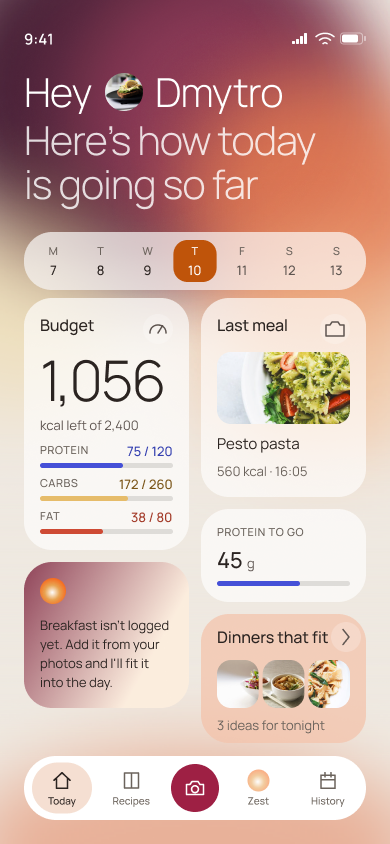
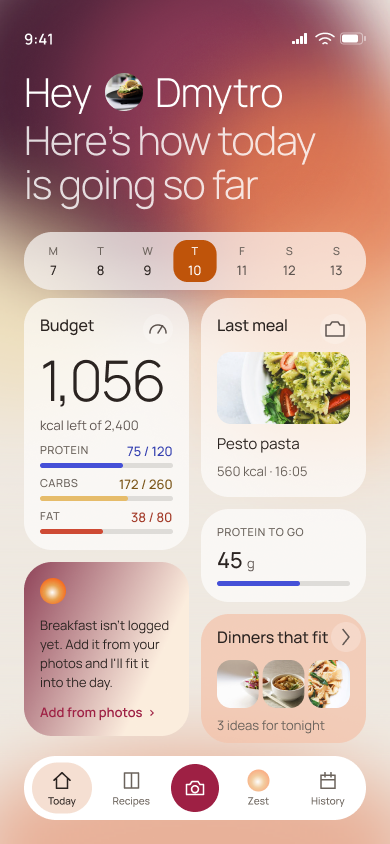
design: fix walkthrough issues W1–W4
Zest's nudge gets a visible "Add from photos ›" while breakfast is missing, and its tile
links to the camera or to Ask Zest depending on the day's state; the Capture library
thumbnail is labelled; found lines carry a chevron; a planned dinner leaves a trace on
Today. Re-checked by clicking the published prototype.

Claude-Session: https://claude.ai/code/session_01FDPnJdAVQFe1ai4QzDTio4

Changed region(s): [[0.0615, 0.8009, 0.3692, 0.8934]]

diff --git a/docs/COGNITIVE-WALKTHROUGH.md b/docs/COGNITIVE-WALKTHROUGH.md
@@ -27,12 +27,14 @@ worked?*
 
 ## Predicted issues, by severity
 
-| # | Issue | Severity | Suggested fix | Check in real sessions |
+Status after the walkthrough: **W1–W4 fixed** in the file (re-checked by clicking the published prototype); W5 and W6 stay prototype limitations.
+
+| # | Issue | Severity | Fix | Check in real sessions |
 |---|---|---|---|---|
-| W1 | Zest's nudge tile doesn't look tappable | Medium | Add "Add from photos ›" as a text button inside the tile | Task 1: do people tap the tile or go to the camera? |
-| W2 | Library thumbnail on Capture is unlabeled | Medium | A "Library" caption under the thumbnail | Task 1: how many press the shutter instead? |
-| W3 | Found lines have no edit affordance | Medium | A chevron on each line; keep the caption | Task 2: do people find the correction without prompting? |
-| W4 | A planned dinner leaves no trace on Today | Medium | The Dinners tile becomes "Tonight · Miso salmon · planned · ≈ 400 kcal" | Task 7: can people answer "is it counted?" a minute later? |
+| W1 | Zest's nudge tile doesn't look tappable | Medium | ✅ "Add from photos ›" inside the tile, shown only while breakfast is missing; the tile opens the camera then, and Ask Zest once breakfast is in (a conditional prototype link) | Task 1: do people tap the tile or go to the camera? |
+| W2 | Library thumbnail on Capture is unlabeled | Medium | ✅ "Library" caption under the thumbnail | Task 1: how many press the shutter instead? |
+| W3 | Found lines have no edit affordance | Medium | ✅ a chevron on each line; the caption stays | Task 2: do people find the correction without prompting? |
+| W4 | A planned dinner leaves no trace on Today | Medium | ✅ in the planned state the Dinners tile reads "Tonight · dinner planned, not logged yet" | Task 7: can people answer "is it counted?" a minute later? |
 | W5 | Snackbars cover content and don't auto-dismiss (prototype) | Low | Auto-dismiss after ~6 s in the build; in the prototype, a tap anywhere closes it | Task 3 |
 | W6 | Undo, then Plan, shows after-breakfast totals | Low | Prototype limitation — a real build computes the day | Tell participants if they hit it |
 
